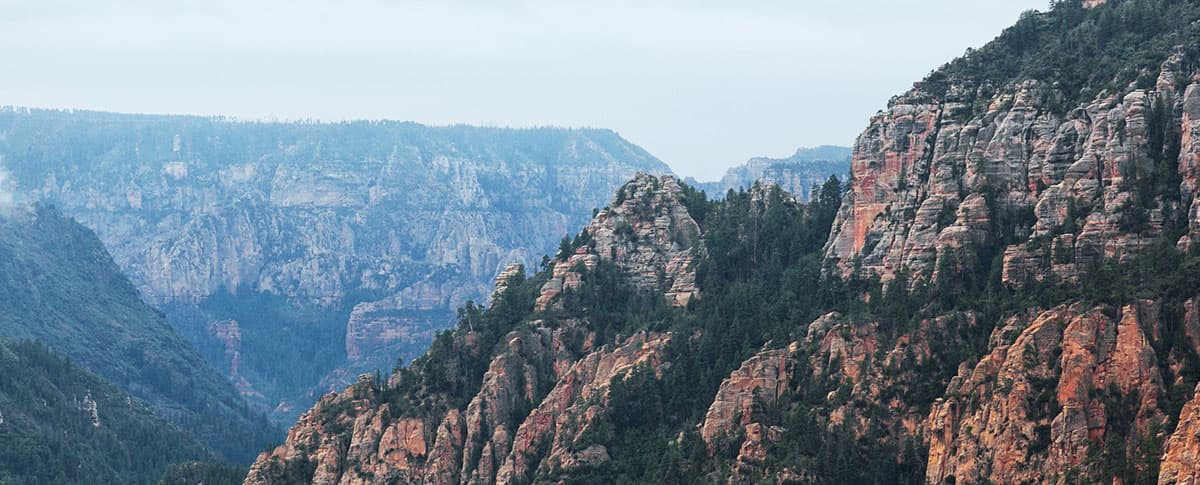
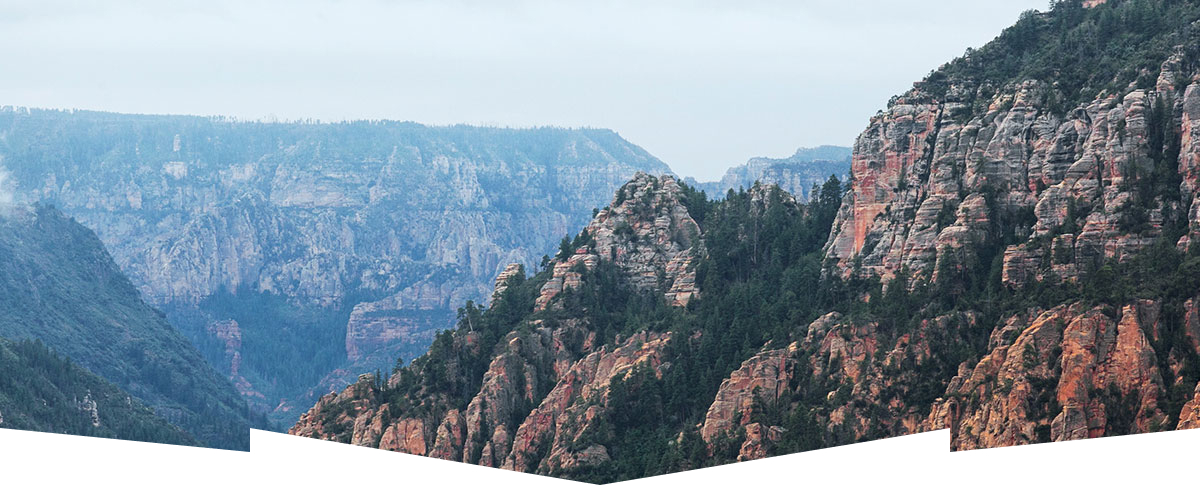
Добавлены шрифты и фоновые изображения

Changed region(s): [[0.0, 0.8351, 1.0, 1.0], [0.8325, 0.6804, 0.8633, 0.7113]]

diff --git a/catalog.html b/catalog.html
@@ -5,6 +5,7 @@
   <meta charset="UTF-8">
   <meta http-equiv="X-UA-Compatible" content="IE=edge">
   <meta name="viewport" content="width=device-width, initial-scale=1.0">
+  <link href="styles/styles.css" rel="stylesheet">
   <title>Гостиницы Седоны</title>
 </head>
 
@@ -38,7 +39,8 @@
   </header>
 
   <main>
-    <h1 class="filter-title">Гостиницы Седоны</h1>
+    <section class="filter-section">
+    <h1 class="filter-title-main">Гостиницы Седоны</h1>
     <div class="breadcrumbs">
       <ul class="breadcrumbs-list">
         <li class="breadcrumbs-item">
@@ -54,19 +56,19 @@
       <!-- СПИСОК ФИЛЬТРОВ ПО ИНФРАСТРУКТУРЕ -->
       <form class="filters" method="get" action="#">
         <fieldset class="infrastructure-filter-group">
-          <legend class="infrastructure-filter-title">Инфраструктура:</legend>
+          <legend class="infrastructure-filter-title filter-title">Инфраструктура:</legend>
           <ul class="infrastructure-filter-list">
-            <li class="infrastructure-filter-item">
+            <li class="infrastructure-filter-item item-text">
               <label>
                 <input type="checkbox" value="pool" checked>Бассейн
               </label>
             </li>
-            <li class="infrastructure-filter-item">
+            <li class="infrastructure-filter-item item-text">
               <label>
                 <input type="checkbox" value="parking" checked>Парковка
               </label>
             </li>
-            <li class="infrastructure-filter-item">
+            <li class="infrastructure-filter-item item-text">
               <label>
                 <input type="checkbox" value="Wi-Fi">Wi-Fi
               </label>
@@ -77,19 +79,19 @@
         <!-- СПИСОК ФИЛЬТРОВ ПО ТИПУ ЖИЛЬЯ -->
 
         <fieldset class="type-housing-filter-group">
-          <legend class="type-housing-filter-title">Тип жилья:</legend>
+          <legend class="type-housing-filter-title filter-title">Тип жилья:</legend>
           <ul class="type-housing-filter-list">
-            <li class="type-housing-filter-item">
+            <li class="type-housing-filter-item item-text">
               <label>
                 <input type="radio" name="type-housing" value="hotel" checked>Гостиница
               </label>
             </li>
-            <li class="type-housing-filter-item">
+            <li class="type-housing-filter-item item-text">
               <label>
                 <input type="radio" name="type-housing" value="motel">Мотель
               </label>
             </li>
-            <li class="type-housing-filter-item">
+            <li class="type-housing-filter-item item-text">
               <label>
                 <input type="radio" name="type-housing" value="apartments">Апартаменты
               </label>
@@ -99,7 +101,7 @@
 
         <!-- ФИЛЬТР ПО СТОИМОСТИ -->
         <fieldset class="price-filter-group">
-          <legend class="price-filter-title">Стоимость, ₽:</legend>
+          <legend class="price-filter-title filter-title">Стоимость, ₽:</legend>
           <label>
             <input type="text" name="min-price" value="0" placeholder="от">
           </label>
@@ -111,10 +113,11 @@
           <input type="reset">
       </form>
     </section>
+  </section>
 
     <section class="catalog-hotels">
       <div>
-        <h2 class="catalog-hotels-title">Найдено гостиниц: <span class="found-hotels">38</span></h2>
+        <h2 class="catalog-hotels-title title">Найдено гостиниц: <span class="found-hotels">38</span></h2>
         <select class="catalog-sorting">
           <option value="cheap">Сначала дешевые</option>
           <option value="expensive">Сначала дорогие</option>
@@ -132,7 +135,7 @@
               <img src="images/hotel-foto/amara-resort-spa.jpg" width="300" height="210" alt="Гостиница Amara Resort & Spa">
               <h3 class="hotel-title">Amara Resort & Spa</h3>
             </a>
-            <p class="type-housing">Гостиница <span class="hotel-price">От 4000 ₽</span></p>
+            <p class="type-housing item-text">Гостиница <span class="hotel-price item-text">От 4000 ₽</span></p>
             <a class="link-more" href="#">ПОДРОБНЕЕ</a>
             <button class="hotel-button" type="button">В ИЗБРАННОЕ</button>
             <span class="rating-stars-4"></span>
@@ -142,7 +145,7 @@
           <li>
             <img src="images/hotel-foto/villas-at-poco.jpg" width="300" height="210" alt="Гостиница Villas at Poco Diablo">
             <h3 class="hotel-title">Villas at Poco Diablo</h3>
-            <p class="type-housing">Гостиница <span class="hotel-price">От 5000 ₽</span></p>
+            <p class="type-housing item-text">Гостиница <span class="hotel-price item-text">От 5000 ₽</span></p>
             <a class="link-more" href="#">ПОДРОБНЕЕ</a>
             <button class="hotel-button" type="button">В ИЗБРАННОЕ</button>
             <span class="rating-stars-4"></span>
@@ -152,7 +155,7 @@
           <li>
             <img src="images/hotel-foto/desert-quail.jpg" width="300" height="210" alt="Гостиница Desert Quail Inn">
             <h3 class="hotel-title">Desert Quail Inn</h3>
-            <p class="type-housing">Гостиница <span class="hotel-price">От 2500 ₽</span></p>
+            <p class="type-housing item-text">Гостиница <span class="hotel-price item-text">От 2500 ₽</span></p>
             <a class="link-more" href="#">ПОДРОБНЕЕ</a>
             <button class="hotel-button" type="button">В ИЗБРАННОЕ</button>
             <span class="rating-stars-3"></span>
@@ -162,7 +165,7 @@
           <li>
             <img src="images/hotel-foto/greentree-inn.jpg" width="300" height="210" alt="Гостиница GreenTree Inn">
             <h3 class="hotel-title">GreenTree Inn</h3>
-            <p class="type-housing">Гостиница <span class="hotel-price">От 1500 ₽</span></p>
+            <p class="type-housing item-textv">Гостиница <span class="hotel-price item-text">От 1500 ₽</span></p>
             <a class="link-more" href="#">ПОДРОБНЕЕ</a>
             <button class="hotel-button" type="button">В ИЗБРАННОЕ</button>
             <span class="rating-stars-2"></span>
@@ -191,7 +194,7 @@
       </form>
     </section>
 
-    <section class="mailing-list">
+    <section class="mailing-list-catalog">
       <h2 class="mailing-list-title title">ПОДПИШИТЕСЬ НА РАССЫЛКУ</h2>
       <p class="mailing-list-text text-main">Только полезная информация и никакого спама, честное бойскаутское!</p>
       <form method="post">

diff --git a/index.html b/index.html
@@ -4,7 +4,7 @@
 <head>
   <meta charset="utf-8">
   <title>HTML Academy: Седона</title>
-  <link href="/style.css" rel="stylesheet">
+  <link href="styles/styles.css" rel="stylesheet">
 </head>
 
 <body>
@@ -46,7 +46,7 @@
 
     <section class="divider">
       <h2 class="visually-hidden">Преимущества отдыха в Седоне</h2>
-      <p class="divider-main-text">Седона — небольшой городок в Аризоне, заслуживающий большего!</p>
+      <p class="divider-main-text title">Седона — небольшой городок в Аризоне, заслуживающий большего!</p>
       <p class="divider-text text-main">Рассмотрим 5 причин, по которым Седона круче, чем Гранд-Каньон!</p>
     </section>
 
@@ -94,7 +94,7 @@
 
         <li class="benefit-item-road">
           <h3 class="benefits-title">КРАСИВАЯ ДОРОГА</h3>
-          <span class="item-number" >— №4 —</span>
+          <span class="item-number">— №4 —</span>
           <p class="item-text text-width">Ехать в Седону из Лас-Вегаса совсем не скучно!</p>
         </li>
 
@@ -107,19 +107,19 @@
     </section>
 
     <section class="main-search">
-      <p class="search-main-text">ЗАИНТЕРЕСОВАЛИСЬ</p>
+      <p class="search-main-text title">ЗАИНТЕРЕСОВАЛИСЬ</p>
       <p class="main-search-text text-main">Укажите предполагаемые даты поездки, и мы покажем вам лучшие предложения гостиниц в Седоне</p>
       <a class="search-button btn" href="#">ПОИСК ГОСТИНИЦЫ В СЕДОНЕ</a>
     </section>
 
     <section class="mailing-list">
-      <h2 class="mailing-list-title title">ПОДПИШИТЕСЬ НА РАССЫЛКУ</h2>
-      <p class="mailing-list-text text-main">Только полезная информация и никакого спама, честное бойскаутское!</p>
+      <h2 class="mailing-list-title title text-white">ПОДПИШИТЕСЬ НА РАССЫЛКУ</h2>
+      <p class="mailing-list-text text-main text-white">Только полезная информация и никакого спама, честное бойскаутское!</p>
       <form method="post">
         <label>
         <input type="email" name="e-mail" placeholder="Ваш e-mail">
       </label>
-        <button type="submit">ПОДПИСАТЬСЯ</button>
+        <button type="submit" class="btn">ПОДПИСАТЬСЯ</button>
       </form>
     </section>
   </main>
@@ -128,9 +128,9 @@
   <footer class="footer">
     <div class="social-icons">
       <ul class="social-icons-list">
-        <li class="icon-item"><a class="link-icon" href="https://vk.com/htmlacademy">Вконтакте</a></li><!-- vk -->
-        <li class="icon-item"><a class="link-icon" href="https://t.me/htmlacademy">Телеграмм</a></li><!-- telegram -->
-        <li class="icon-item"><a class="link-icon" href="https://www.youtube.com/user/htmlacademyru">YouTube</a></li>
+        <li class="icon-item icon-vk"><a class="link-icon" href="https://vk.com/htmlacademy"></a></li>
+        <li class="icon-item icon-tg"><a class="link-icon" href="https://t.me/htmlacademy"></a></li>
+        <li class="icon-item icon-youtube"><a class="link-icon" href="https://www.youtube.com/user/htmlacademyru"></a></li>
       </ul>
     </div>
     <div class="footer-tel"><a class="footer-tel" href="tel:+78128121212">+7 (812) 812-12-12</a></div>

diff --git a/styles/styles.css b/styles/styles.css
@@ -1,0 +1,171 @@
+@font-face {
+  font-family: "PT Sans";
+  src: url("fonts/ptsans-400.woff2") format("woff2");
+  font-weight: 400;
+  font-style: normal;
+  font-display: swap;
+}
+
+@font-face {
+  font-family: "PT Sans";
+  src: url("fonts/ptsans-700.woff2") format("woff2");
+  font-weight: 700;
+  font-style: normal;
+  font-display: swap;
+}
+
+body {
+  font-family: "PT Sans", serif;
+  font-weight: 400;
+  color: #000000;
+  background-color: rgb(231, 231, 183);
+}
+/* INDEX.HTML */
+
+.btn {
+  font-size: 20px;
+  line-height: 36px;
+  color: #FFFFFF;
+}
+
+.header-nav {
+  font-weight: 700;
+  font-size: 20px;
+  line-height: 26px;
+}
+
+.text-main {
+  font-size: 22px;
+  line-height: 26px;
+  color: #333333;
+}
+
+.item-number {
+  font-size: 18px;
+  line-height: 21px;
+}
+
+.item-text {
+  font-weight: 400;
+  font-size: 18px;
+  line-height: 21px;
+}
+
+.title {
+  font-weight: 700;
+  font-size: 30px;
+  line-height: 36px;
+  }
+
+.benefits-title {
+  font-weight: 700;
+  font-size: 24px;
+  line-height: 28px;
+}
+
+.text-white {
+  color: #FFFFFF;
+}
+
+.footer-tel {
+  font-size: 40px;
+  line-height: 40px;
+}
+
+.nav-link-button {
+  font-size: 16px;
+  line-height: 20px;
+}
+
+.visually-hidden {
+  visibility: hidden;
+}
+
+.main-header {
+background-image: url("/images/index-background.jpg");
+height: 485px;
+}
+
+.mailing-list {
+  background-image: url("/images/background-mailing.jpg");
+  height: 410px;
+}
+
+.search-icon {
+  background-image: url("/images/icons/search-icon.svg");
+  background-repeat: no-repeat;
+}
+
+.favorites-icon {
+  background-image: url("/images/icons/favorite-icon.svg");
+  background-repeat: no-repeat;
+}
+
+.icon-vk {
+  background-image: url("/images/icons/social-icon/vk-icon.svg");
+  background-repeat: no-repeat;
+}
+
+.icon-tg {
+  background-image: url("/images/icons/social-icon/telegram-icon.svg");
+  background-repeat: no-repeat;
+}
+
+.icon-youtube {
+  background-image: url("/images/icons/social-icon/youtube-icon.svg");
+  background-repeat: no-repeat;
+}
+
+/* CATALOG.HTML */
+
+.filter-section {
+  background-image: url("/images/background-filters.jpg");
+  background-repeat: no-repeat;
+  color: #FFFFFF;
+}
+
+.filter-title-main {
+  font-weight: 700;
+  font-size: 60px;
+  line-height: 78px;
+}
+
+.filter-title {
+  font-weight: 700;
+  font-size: 20px;
+  line-height: 26px;
+}
+
+.hotel-title {
+  font-weight: 700;
+  font-size: 24px;
+  line-height: 28px;
+}
+
+.hotel-button {
+  font-weight: 700;
+  font-size: 16px;
+  line-height: 20px;
+  color: #FFFFFF;
+}
+
+.link-more {
+  font-weight: 700;
+  font-size: 16px;
+  line-height: 20px;
+  color: #FFFFFF;
+}
+
+.rating-text {
+  font-size: 16px;
+  line-height: 20px;
+  color: #333333;
+}
+
+.pagination-item {
+  font-weight: 700;
+  font-size: 20px;
+  line-height: 36px;
+}
+
+
